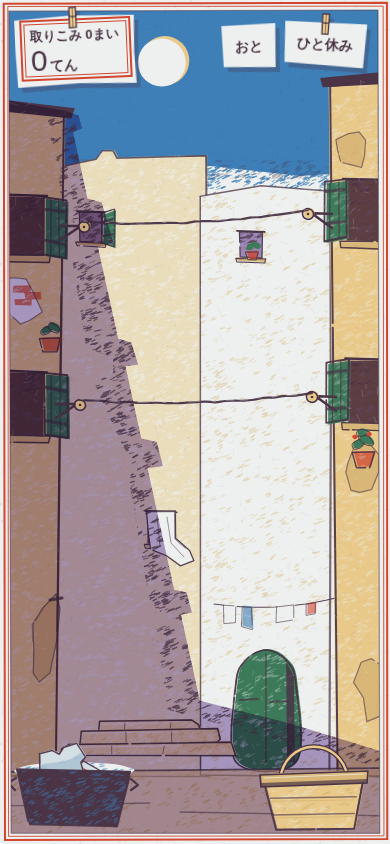
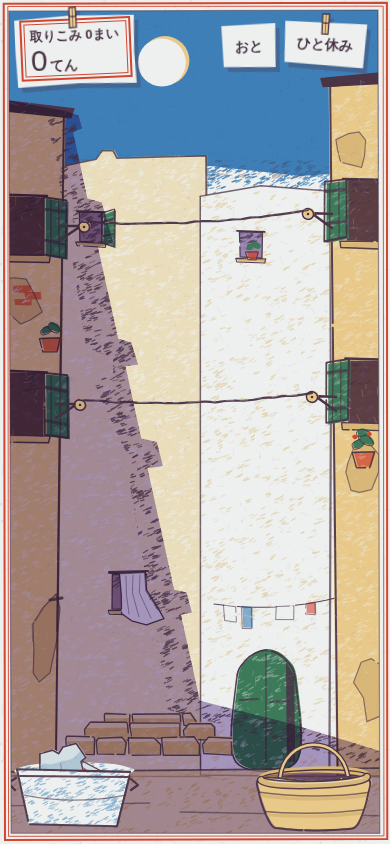
arcade: 008 せんたく日和 開発完了（監査中）
Claude-Session: https://claude.ai/code/session_01QkUvG7rhwuqzh5G9T4Jq1S

diff --git a/arcade/games/008-alley-laundry/index.html b/arcade/games/008-alley-laundry/index.html
@@ -318,7 +318,7 @@ const SIM = (() => {
       const L = ropeLoad(S, r);
       if (L > LIM) {
         if (R.strain === 0) emit(S, { type: "creak", rope: r });
-        R.strain += dt * (0.5 + (L - LIM) * 0.12);
+        R.strain += dt * 0.5; // きしみ始めてから2秒で切れる
         if (R.strain >= 1) { if (S.t - S.lastPen >= PEN_GAP) snap(S, r); else R.strain = 0.999; }
       } else R.strain = Math.max(0, R.strain - dt * 0.6);
     }
@@ -577,7 +577,7 @@ const SIM = (() => {
   }
   function patch(g, cx, cy, w, h, brick = false) {
     const pts = cutP(blobPts(cx, cy, w, h, 9, 0.28, J(0.3)), 1.5);
-    fillPts(g, pts, brick ? C.shiro : C.shita);
+    fillPts(g, pts, C.shita);
     if (!brick) grainPts(g, pts, "gShita", 0.9);
     else for (let i = 0; i < 3; i++) {
       const bx = cx - w * 0.6 + R() * w * 1.1, by = cy - h * 0.5 + i * (h * 0.24) + J(2), bw = 13 + R() * 6, bh = 6 + R() * 1.5;
@@ -605,10 +605,13 @@ const SIM = (() => {
     { const pot = cutP([[246, 252], [258, 252], [256, 260], [248, 260]], 0.4); fillPts(g, pot, C.tomato, 1, -1, 0.75); inkPts(g, pot, 1);
       for (const [x, y, a, b, r] of [[249, 248, 4, 3, -0.4], [255, 246, 5, 3, 0.5]]) fillPts(g, blobPts(x, y, a, b, 7, 0.15, r), C.midori, 1, -1, 1, false, true); }
     // 白いカーテンの窓: 他の窓と同じ大きさ。窓の幅いっぱいの紙の白が、窓台から外へ斜めに垂れる
-    farWin(g, 148, 512, 26, 32);
-    { const d = cutP([[147, 511], [175, 511], [176, 538], [190, 551], [194, 561], [181, 566], [166, 556], [151, 549], [148, 532]], 0.6);
+    farWin(g, 112, 574, 32, 36);
+    { // 窓の上のカーテンの棒から、窓の幅いっぱいの布が窓台の外へ扇のように斜めに垂れる（細長い靴下の形にしない）
+      line(g, [[109, 572], [148, 571]], 2, C.sumire, 0.9);
+      const d = cutP([[120, 573], [145, 572], [147, 590], [157, 606], [164, 619], [147, 625], [131, 621], [122, 613], [121, 595]], 0.6);
       fillPts(g, d, C.shiro); grainPts(g, d, "gShiro", 0.6); inkPts(g, d, 1.3);
-      line(g, [[157, 516], [160, 546]], 1, C.sumire, 0.55); line(g, [[167, 517], [171, 543], [184, 557]], 1, C.sumire, 0.5); }
+      for (const [a, b, c] of [[126, 576, [129, 614]], [133, 575, [139, 617]], [140, 575, [151, 618]]]) line(g, [[a, b], [a + J(1), b + 18], c], 1, C.sumire, 0.45);
+    }
     // 戸口: 鎧戸の緑の板戸を少し開けた形
     { const arch = [[236, 762], [236, 684], [246, 660], [266, 650], [286, 660], [296, 684], [296, 762]];
       fillPts(g, arch, C.midori, 1.5, -1, 1, false, true); smoothTo(g, arch, true, 1.5, -1); grain(g, "gShiro", 0.45);
@@ -616,16 +619,20 @@ const SIM = (() => {
       fillPts(g, cutP([[286, 662], [294, 676], [295, 762], [287, 762]], 0.4), C.sumire, 0, 0, 0.85);
       line(g, [[240, 700], [258, 699]], 2, C.sumire, 0.7); line(g, [[270, 702], [288, 701]], 2, C.sumire, 0.7);
       inkPts(g, arch, 1.6, 0.92, true, true); }
-    // 石段: 段ごとに高さと長さを変え、角を欠き、石の継ぎ目を入れる（板に見せない）
-    for (const [x, y, w, h, chip] of [[100, 722, 98, 8, 1], [82, 731, 136, 13, 0], [64, 745, 168, 10, 2]]) {
-      const pts = chip === 1 ? [[x, y], [x + w - 7, y - 2], [x + w, y + 3], [x + w + 3, y + h], [x - 2, y + h + 1]]
-        : chip === 2 ? [[x + 5, y], [x + w, y - 2], [x + w + 4, y + h], [x - 1, y + h + 1], [x - 2, y + 5]]
-        : [[x, y], [x + w, y - 3], [x + w + 2, y + h - 4], [x + w - 4, y + h], [x - 2, y + h + 1]];
-      const d = cutP(pts, 0.8);
-      fillPts(g, d, C.shiro); fillPts(g, d, C.odo, 1, -1, 0.75); grainPts(g, d, "gShita", 0.9); grainPts(g, d, "gShiro", 0.5, 7, 3);
-      line(g, [[x + 2, y + 2.2], [x + w * 0.7, y + 0.8]], 1, C.shiro, 0.8);
-      for (const f of [0.22 + R() * 0.15, 0.55 + R() * 0.2]) line(g, [[x + w * f, y + 1], [x + w * f + J(2), y + h - 1]], 1.1, C.sumire, 0.55);
-      inkPts(g, d, 1.5);
+    // 石段: 1段ずつ長さの違う石の塊を並べる（踏み面は明るい黄土、蹴上げは2度刷り）。角を欠き、継ぎ目は不揃い（板に見せない）
+    seed(74);
+    for (const [x0, y, w, h] of [[104, 718, 92, 7], [84, 727, 134, 12], [66, 741, 166, 14]]) {
+      let x = x0;
+      while (x < x0 + w - 8) {
+        const bw = Math.min(x0 + w - x, 26 + R() * 30), hh = h + J(1.5), top = 3 + R() * 1.5;
+        const c1 = R() < 0.35 ? 3 + R() * 3 : 0.5, c2 = R() < 0.35 ? 3 + R() * 3 : 0.5;
+        const blk = cutP([[x + c1, y - top], [x + bw - c2, y - top + J(0.8)], [x + bw, y - top + c2 + 1], [x + bw + J(0.8), y + hh], [x + 1, y + hh + J(0.8)], [x, y - top + c1 + 1]], 0.7);
+        fillPts(g, blk, C.shita, 1, -1); grainPts(g, blk, "gShiro", 0.35, R() * 40, R() * 40);
+        const tread = cutP([[x + c1, y - top], [x + bw - c2, y - top], [x + bw, y - top + c2 + 1], [x + bw, y + 0.5], [x + 1, y + 1], [x, y - top + c1 + 1]], 0.4);
+        fillPts(g, tread, C.shiro, 0.5, -0.5, 0.9); fillPts(g, tread, C.odo, 1, -1, 0.6);
+        inkPts(g, blk, 1.4, 0.85);
+        x += bw + 1.5 + R() * 1.5;
+      }
     }
     // 遠くの物干し（版を減らして薄く）
     { const y0 = (x) => 604 + (x - 214) * -0.05 + 6 * 4 * ((x - 214) / 122) * (1 - (x - 214) / 122);
@@ -979,7 +986,7 @@ const SIM = (() => {
       const pts = [[xx + 3, yy - h], [xx + w * 0.5, yy - h - sag], [xx + w - 3, yy - h + 0.5], [xx + w + 2.5 * k, yy - h * 0.5], [xx + w - 2, yy], [xx + w * 0.5, yy + 1], [xx + 2, yy], [xx - 1.5 * k, yy - h * 0.5]];
       fillPts(g, pts, c, 1.5, -1, 1, false, true);
       if (striped === 1) { g.save(); smoothTo(g, pts); g.clip(); g.fillStyle = C.tomato; g.fillRect(xx, yy - h * 0.62, w, h * 0.16); g.fillStyle = C.midori; g.fillRect(xx, yy - h * 0.3, w, h * 0.1); g.restore(); }
-      if (striped === 2) { g.save(); smoothTo(g, pts); g.clip(); g.fillStyle = C.tomato; g.fillRect(xx - 4, yy - h - 4, w + 8, h * 0.45 + 4); g.restore(); } // 靴下は赤い縁だけ見せる
+      if (striped === 2) { g.save(); smoothTo(g, pts); g.clip(); g.fillStyle = C.tomato; g.fillRect(xx - 4, yy - h - 4, w + 8, h * 0.22 + 4); g.restore(); } // 靴下は赤い細い縁だけ見せる
       if (e.stained) { g.save(); smoothTo(g, pts); g.clip(); fillPts(g, blobPts(xx + w * 0.35, yy - h * 0.5, w * 0.16, h * 0.42, 8, 0.2), e.stainCol === "b" ? C.gunjo : C.tomato, 0, 0, 0.4, false, true); g.restore(); }
       if (c === C.shiro) { smoothTo(g, pts); grain(g, "gShiro", 0.5); }
       line(g, [[xx + w * 0.62, yy - h + 2], [xx + w * 0.63, yy - h * 0.5], [xx + w * 0.62, yy - 3]], 1, C.sumire, 0.5);
@@ -989,26 +996,40 @@ const SIM = (() => {
   }
   function drawBasket(g) {
     const { x, y, w, h } = BASK;
-    if (!baskLook) { seed(62); baskLook = { body: cutP([[x, y + 4], [x + w, y], [x + w - 10, y + h], [x + 11, y + h + 1]], 1.2), bands: [0.42 + J(0.05), 0.72 + J(0.05)] }; baskLook.bd = mkDash(perim(baskLook.body)); }
+    if (!baskLook) {
+      seed(62);
+      // 胴は縁の下でいったん少しふくらみ、底へ丸くすぼまる（箱の台形にしない）
+      baskLook = { body: [[x - 1, y + 4], [x + w * 0.5, y + 7], [x + w + 1, y + 3], [x + w + 3, y + h * 0.4], [x + w - 7, y + h - 4], [x + w - 20, y + h + 1], [x + w * 0.5, y + h + 3], [x + 19, y + h + 1], [x + 7, y + h - 4], [x - 4, y + h * 0.4]].map(([a, b]) => [a + J(0.8), b + J(0.8)]),
+        bands: [0.38 + J(0.04), 0.7 + J(0.05)], bj: [J(2), J(2), J(2), J(2)] };
+      const tmp = new Path2D(); smoothTo(tmp, baskLook.body); baskLook.bd = mkDash(perim(baskLook.body));
+    }
     const t = baskLook;
+    // 縁の奥側の巻きと、かごの中の暗がり
+    g.save(); g.beginPath(); g.ellipse(x + w / 2, y + 3, w / 2 + 3, 7, -0.03, Math.PI, 0); g.lineWidth = 7; g.strokeStyle = C.shita; g.stroke(); g.lineWidth = 1.4; g.strokeStyle = C.sumire; g.stroke(); g.restore();
+    fillPts(g, blobPts(x + w / 2, y + 4, w / 2, 5.5, 14, 0.03), C.kage, 0, 0, 1, true, true);
     // 取っ手（付け根を縁の内側に差し込む）
-    for (const [cw, cc] of [[5, C.sumire], [2.4, C.odo]]) { g.save(); g.strokeStyle = cc; g.lineWidth = cw; g.beginPath(); g.moveTo(x + 16, y + 6); g.bezierCurveTo(x + 20, y - 36, x + w - 24, y - 40, x + w - 16, y + 4); g.stroke(); g.restore(); }
-    // 中のたたんだ山（取り込んだ最後の数枚。縁の上に2枚分の折り山が見える）
-    const d = S ? S.delivered.slice(-4) : [];
-    const list = d.length ? d : [];
-    if (list.length) foldedPile(g, x + w / 2 + 2, y + 18, list, 0.95);
-    // 胴: 縁から底へ少しすぼまる形＋高さ不揃いの帯2本（編み目は描かない）
-    const p = new Path2D(); poly(p, t.body);
+    for (const [cw, cc] of [[5, C.sumire], [2.4, C.odo]]) { g.save(); g.strokeStyle = cc; g.lineWidth = cw; g.beginPath(); g.moveTo(x + 16, y + 4); g.bezierCurveTo(x + 20, y - 38, x + w - 24, y - 42, x + w - 16, y + 2); g.stroke(); g.restore(); }
+    // 中のたたんだ山（取り込んだ最後の数枚。縁の上に2枚分以上の折り山が見える）
+    const list = S ? S.delivered.slice(-4) : [];
+    if (list.length) foldedPile(g, x + w / 2 + 2, y + 10, list, 0.95);
+    // 胴: 高さ不揃いの帯2本が胴のふくらみに沿って弧を描く（編み目は描かない）
+    const p = new Path2D(); smoothTo(p, t.body);
     g.save(); g.translate(1.5, -1); g.fillStyle = C.odo; g.fill(p); g.restore();
-    grain(g, "gShita", 1, 1.5, -1, p); grain(g, "gShiro", 0.4, 1.5, -1, p);
-    for (const b of t.bands) line(g, [[x + 4 + b * 5, y + h * b], [x + w - 5 - b * 6, y + h * b - 1.5]], 1.4, C.sumire, 0.6);
-    for (const b of t.bands) line(g, [[x + 6 + b * 5, y + h * b + 3], [x + w - 7 - b * 6, y + h * b + 1.6]], 1, C.shita, 0.9);
+    g.save(); g.clip(p);
+    grain(g, "gShita", 1, 1.5, -1); grain(g, "gShiro", 0.4, 1.5, -1);
+    t.bands.forEach((b, i) => {
+      const yy = y + h * b;
+      g.strokeStyle = C.sumire; g.globalAlpha = 0.65; g.lineWidth = 1.5; g.beginPath(); g.moveTo(x - 6, yy + t.bj[i]); g.quadraticCurveTo(x + w / 2, yy + 7 + t.bj[i + 2], x + w + 6, yy - 1.5); g.stroke();
+      g.strokeStyle = C.shita; g.globalAlpha = 1; g.lineWidth = 3.2; g.beginPath(); g.moveTo(x - 6, yy + 3 + t.bj[i]); g.quadraticCurveTo(x + w / 2, yy + 10 + t.bj[i + 2], x + w + 6, yy + 1.5); g.stroke();
+    });
+    g.restore();
     strokeInk(g, p, 2, 0.92, t.bd);
-    // 縁の太い巻き（2度刷りの黄土＋すみれ茶の帯）
-    const rim = [[x - 4, y + 1], [x + w + 4, y - 3], [x + w + 3, y + 9], [x - 3, y + 13]];
-    fillPts(g, rim, C.shita, 1, -1); fillPts(g, [[x - 3, y + 9], [x + w + 3, y + 5], [x + w + 3, y + 9], [x - 3, y + 13]], C.sumire, 0, 0, 0.7);
-    line(g, [[x, y + 4], [x + w, y]], 1, C.shiro, 0.7);
-    g.save(); g.strokeStyle = C.sumire; g.lineWidth = 1.6; poly(g, rim); g.stroke(); g.restore();
+    // 縁の手前側の太い巻き（2度刷りの黄土＋すみれ茶の帯）
+    g.save(); g.lineCap = "round";
+    g.beginPath(); g.ellipse(x + w / 2, y + 4, w / 2 + 3, 7, -0.03, 0.05, Math.PI - 0.05); g.lineWidth = 8.5; g.strokeStyle = C.sumire; g.globalAlpha = 0.92; g.stroke();
+    g.globalAlpha = 1; g.lineWidth = 5.5; g.strokeStyle = C.shita; g.stroke();
+    g.beginPath(); g.ellipse(x + w / 2 + 1, y + 3, w / 2 + 2, 6, -0.03, 0.4, Math.PI - 0.5); g.lineWidth = 1; g.strokeStyle = C.shiro; g.globalAlpha = 0.7; g.stroke();
+    g.restore();
     if (selId === "basket" && kbMode) focusRing(g, x - 6, y - 40, w + 12, h + 46);
   }
 
@@ -1407,6 +1428,7 @@ const SIM = (() => {
   }
 
   // ---- 描画 ----
+  let warnPg = null;
   function draw() {
     const g = ctx;
     g.setTransform(1, 0, 0, 1, 0, 0);
@@ -1431,6 +1453,7 @@ const SIM = (() => {
     drawRope(g, 1); drawRope(g, 0);
     if (S) {
       for (const r of [1, 0]) if (!S.ropes[r].broken) for (const it of S.ropes[r].items) drawHung(g, it);
+      warnPg = null;
       for (const pg of S.pigeons) {
         if (S.ropes[pg.rope].broken && !pg.leaving) continue;
         const ry = ropeY(pg.rope, pg.x);
@@ -1439,6 +1462,7 @@ const SIM = (() => {
           const age = (pg.age = (pg.age || 0) + dtLast), k = Math.max(0, 1 - age / 0.5);
           const warn = lastTarget && lastTarget.type === "rope" && lastTarget.r === pg.rope && S.held && SIM.pigeonAt(S, pg.rope, lastTarget.x, lastTarget.x + S.held.w) === pg ? 1 : 0;
           drawPigeon(g, pg.x - k * 60 * (pg.flip ? -1 : 1), ry + 1 - k * 90, pg, k > 0 ? 1 : 0, warn);
+          if (warn) warnPg = [pg, ry];
         }
       }
       // しずく
@@ -1472,6 +1496,8 @@ const SIM = (() => {
       for (const part of lk.parts) g.fill(part.path); g.restore();
       drawLocalGarment(g, it);
       g.restore();
+      // 置こうとしている所に鳩がいるときは、持っている布の手前に鳩を出して見せる
+      if (warnPg) drawPigeon(g, warnPg[0].x, warnPg[1] + 1, warnPg[0], 0, 1);
     }
     // 得点の文字
     for (const f of fx) {

diff --git a/arcade/design-log.md b/arcade/design-log.md
@@ -9,3 +9,4 @@
 | 005 | 大正〜昭和初期の新版画（多色木版）の夜の港（一文字ぼかし・黄土の空摺り・版ずれ・木目・奉書の余白）と和船 | 奉書白 #ebe2ca／霧鼠 #8d9ea3／藍摺 #2b4660／岩の焦茶 #4b3a2e／灯の黄土 #e3b04b／舷灯の朱 #b9452f | Kaisei Decol ＋ Zen Old Mincho | 光の帯が通った所だけ、霧の影絵の船に色版と墨版が乗って刷り上がる（帯の木目は画面に固定）。汽笛と縁の目印は彫り跡の弧1本、霧の帯は高さ・間隔・明るさを不揃いに。飾りを1つ取った: 夜空の星（と霧笛の目盛りの揺れ） |
 | 006 | 1900年前後の旅回りの小さな一座の「昼の天幕の中」（継ぎはぎの帆布・柱と麻縄・おがくずの楕円のリング・板の客席）と道具馬車の看板描き（深緑の板地・影つき文字・放射の車輪） | 古帆布 #c4b184／鉋屑 #cf9358／馬車の深緑 #23574a／緑の墨 #1f302a／衣装の牡丹 #a8336a／車輪の山吹 #e9b021 | Rampart One ＋ Kiwi Maru | 撃つたびに筒の口に山吹の煙「ドン」が出て、天幕に煤の跡が1つずつ増える（暴発は天井の破れ）。結果の看板にその日の天幕を刷る。飾りを1つ取った: 動かない張り綱（揺れる2本だけ残す） |
 | 007 | 昭和の夏祭りの金魚すくいの屋台を真上から（水色ペンキ刷毛塗りのトタン水槽・剥げと錆・板金の継ぎ目、針金のポイ、白い樹脂のお椀、ボール紙にマジックの値札とセロハン、裸電球1個の映り込み） | トタンの水浅葱 #8cc3c9／金魚の緋 #e0482a／ポイの薄紙 #e9ece3／裸電球の卵黄 #f2c14e／錆の赤茶 #8a4b2d／夜店の墨藍 #233038 | Yusei Magic ＋ M PLUS Rounded 1c | ゲージを出さず、ポイの紙そのものの透け・面のむら・シワ・裂け目が耐久の表示。破れると不揃いな穴（裂け目1本・繊維は縁の一部だけ）が開き、結果は袋の金魚と破れたポイの絵。飾りを1つ取った: 値札「1回 50円」のセロハンテープ（横画面では値札ごと外して水槽を大きく） |
+| 008 | 1950〜60年代ごろの港町の洗濯石鹸の包み紙（特色の平版刷り・版ずれ・クレヨンの擦れ・紙の白の余白とトマトの二重枠）と裏路地の物干しの道具（鉄の腕金と滑車・緑の板戸の鎧戸・黄土の漆喰・木の洗濯ばさみ・亜鉛のたらい・籐のかご） | 漆喰の黄土 #e8c98a／昼の空の群青 #3f7fb8／鎧戸の緑 #3d7a5a／トマトの赤 #d2452f／青み付けの白 #edf0ee／影のすみれ茶 #4a3446 | Mochiy Pop One ＋ Kosugi Maru | 左の家の屋根の輪郭をなぞった段つきの影が太陽とともに路地を横切り、その境目がそのまま乾く場所の目印（乾きゲージ無し、布の群青の薄刷りと裾の帯が濡れ具合）。飾りを1つ取った: 石段の踏み面の継ぎ目の線（石の塊の並びだけ残す） |
